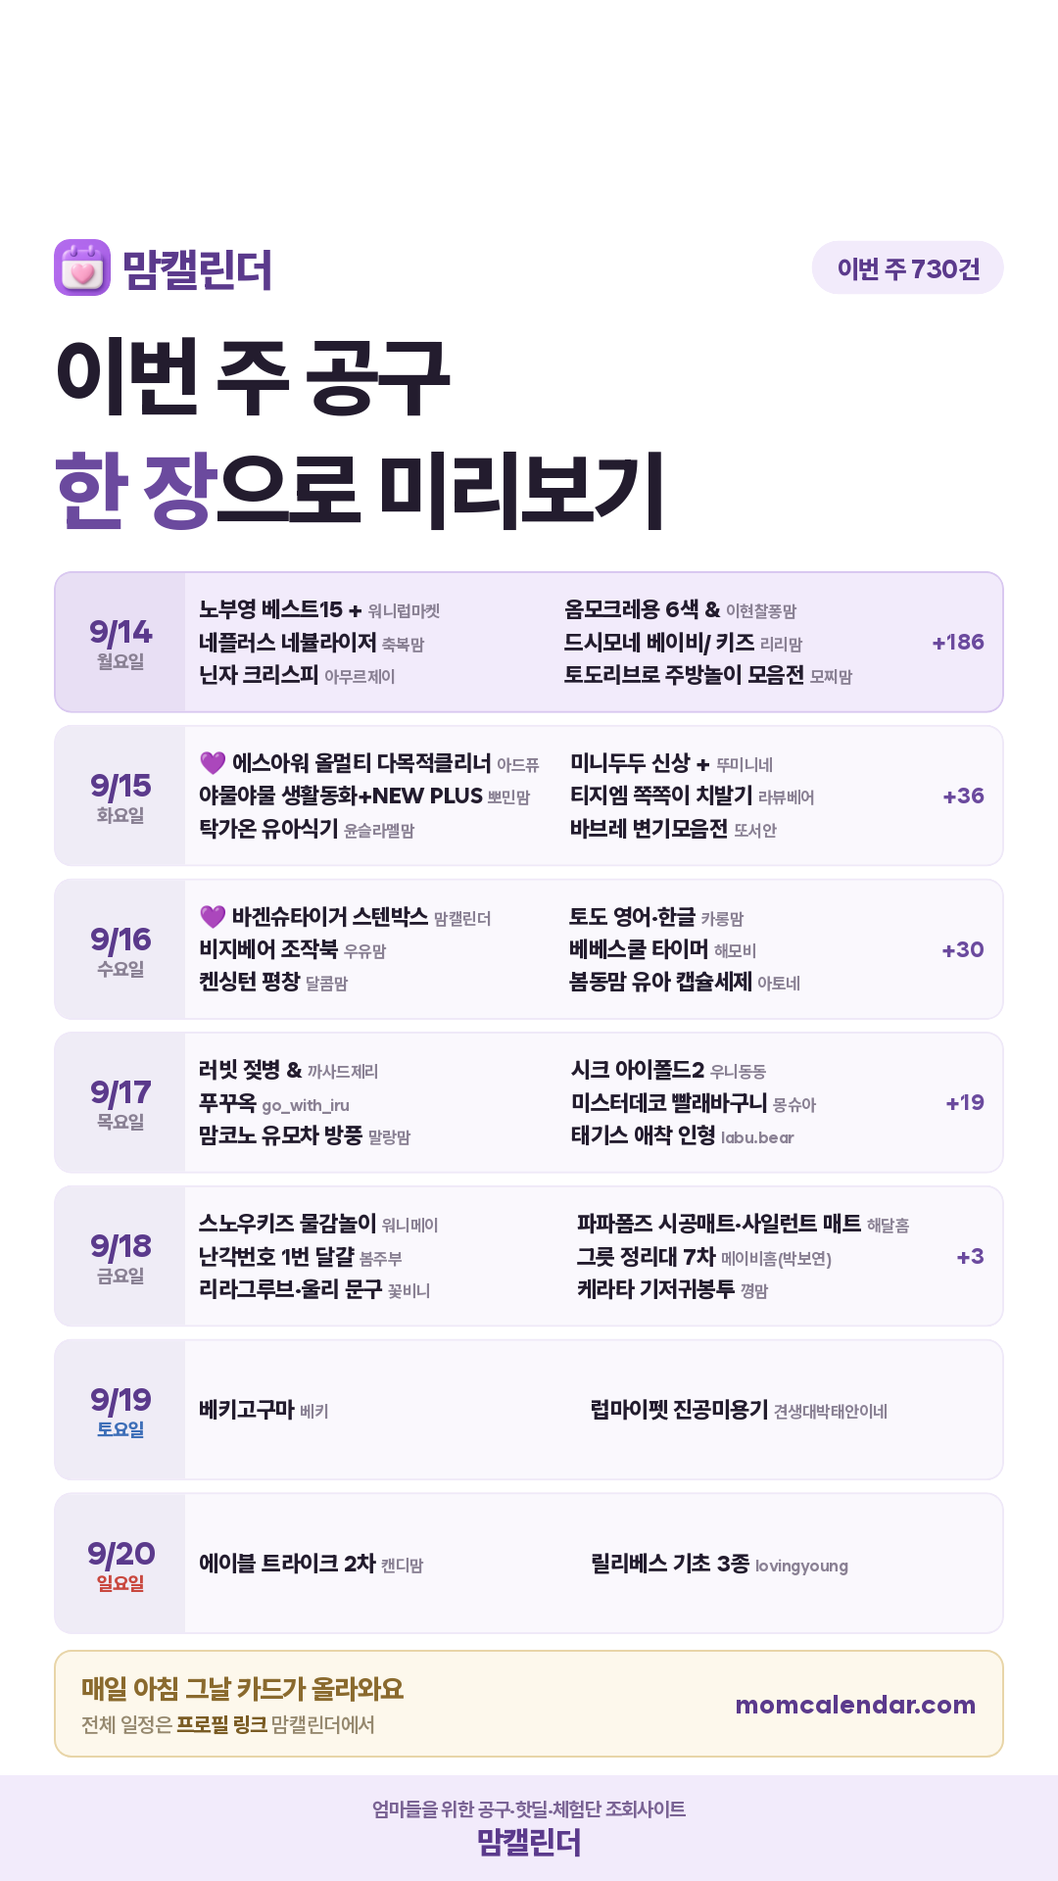
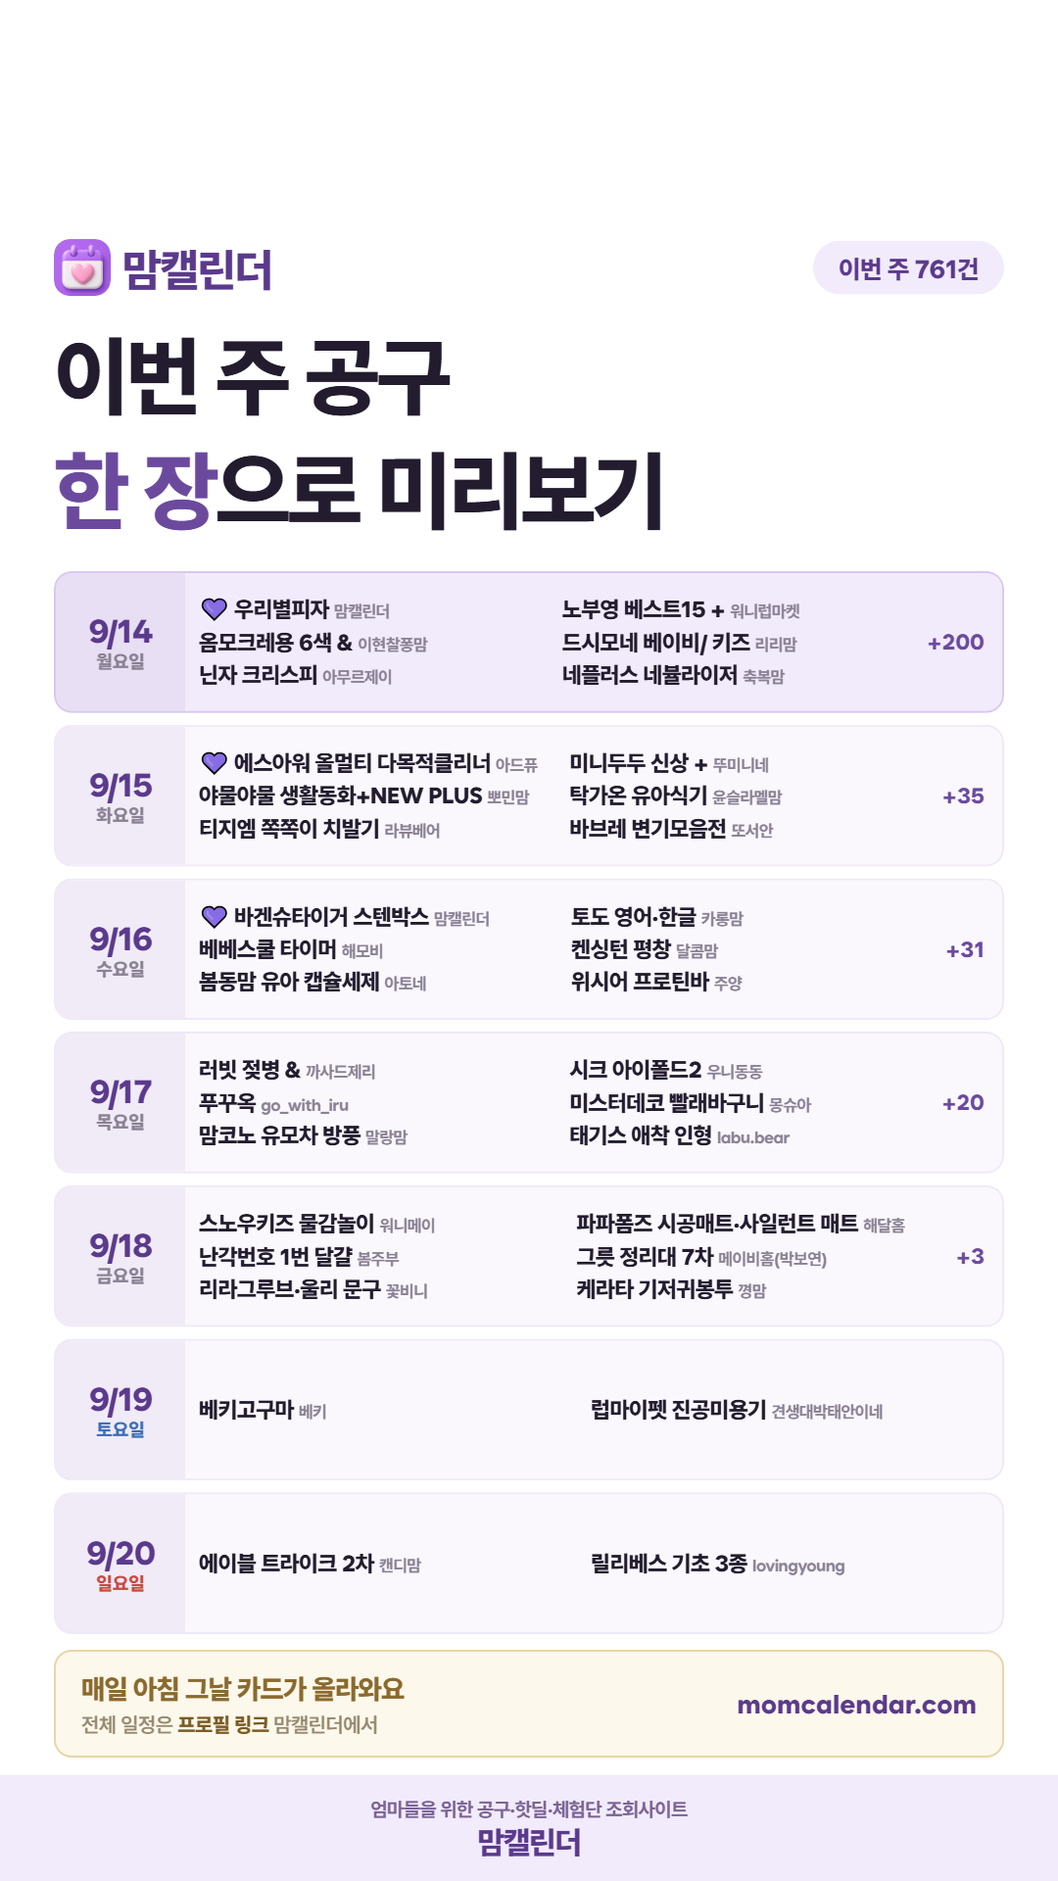
아침 인스타 카드 재생성 (2026-09-14) — 우리별피자(맘캘린더) 맨 위 반영

diff --git a/daily/2026-09-14.html b/daily/2026-09-14.html
@@ -19,25 +19,27 @@ textarea{width:100%;height:260px;border:1px solid #E3DCEF;border-radius:10px;pad
 .todo p{font-size:12.5px;color:#6B6379;line-height:1.75;margin-top:6px}
 .todo a{color:#5B2E8C;font-weight:700}
 </style></head><body>
-<div class="hd"><div class="wrap"><h1>9월 14일(월) 인스타 카드</h1><p>주간예고 · week 730</p></div></div>
+<div class="hd"><div class="wrap"><h1>9월 14일(월) 인스타 카드</h1><p>주간예고 · week 761</p></div></div>
 <div class="wrap">
   
   <div class="card"><img src="./2026-09-14.png" alt="오늘 공구 카드"></div>
   <a class="btn" href="./2026-09-14.png" download="momcal_20260914.png">사진 저장</a>
   <div class="card">
-    <textarea id="cap" readonly>월요일 아침 루틴 — 이번 주 공구 미리보기예요
+    <textarea id="cap" readonly>이번 주 뭐가 열리는지 요일별로 정리했어요
 
-이번 주(9/14~9/20) 오픈 예정 730건
+이번 주(9/14~9/20) 오픈 예정 761건
 
 ━━━━━━━━━━━━━━
 
 🗓 9/14(월) 오픈
+· 우리별피자 — 맘캘린더 @momcal_
 · 노부영 베스트15 + 에릭칼 — 워니럽마켓
 · 옴모크레용 6색 &amp; 12색 &amp; 스케치북 — 이현찰퐁맘
-· 네플러스 네뷸라이저 — 축복맘
 · 드시모네 베이비/ 키즈 — 리리맘
 · 닌자 크리스피 — 아무르제이
+· 네플러스 네뷸라이저 — 축복맘
 · 토도리브로 주방놀이 모음전 — 모찌맘
+· 루솔 — 우유맘
 · 킨더픽 애플박스 — 젤리또리
 · 덕포식육점 아이곰탕&amp;아기소고기 구이용 — 희야
 · 브루더 X CJ 온스타일 — 승빈맘
@@ -46,16 +48,14 @@ textarea{width:100%;height:260px;border:1px solid #E3DCEF;border-radius:10px;pad
 · 마야 :: 간장,된장,춘장,고추장,청국장 — 다른바른맘
 · 슈베가든 이유식 스틱큐브 — 도담맘
 · 매직쉐프 전동그라인더 — 투찬이네
-· 헤이홈 카메라 — 이현맘
-· 바맘 배도라지 — 다겨미네
-…외 176건
+…외 190건
 
 🗓 9/15(화) 오픈
 · 에스아워 올멀티 다목적클리너 — 아드퓨 @atelier.de.purete
 · 미니두두 신상 + 단독컬러 — 뚜미니네
 · 야물야물 생활동화+NEW PLUS 단하루 — 뽀민맘
-· 티지엠 쪽쪽이 치발기 — 라뷰베어
 · 탁가온 유아식기 — 윤슬라멜맘
+· 티지엠 쪽쪽이 치발기 — 라뷰베어
 · 바브레 변기모음전 — 또서안
 · 아띠빠스 걸음마 신발 — 뽀물이네
 · 나와아기 사다리변기 — 솔맘
@@ -67,12 +67,11 @@ textarea{width:100%;height:260px;border:1px solid #E3DCEF;border-radius:10px;pad
 · 미모서울 도마 — 첨미살림
 · AMT 프라이어·멀티쿠커 — 맘이가요
 · 맥스클리닉 오일폼·멜라토닌 버블 마스크팩 — 송송마켓
-…외 26건
+…외 25건
 
 🗓 9/16(수) 오픈
 · 바겐슈타이거 스텐박스 — 맘캘린더 @momcal_
 · 토도 영어·한글 — 카롱맘
-· 비지베어 조작북 — 우유맘
 · 베베스쿨 타이머 — 해모비
 · 켄싱턴 평창 — 달콤맘
 · 봄동맘 유아 캡슐세제 — 아토네
@@ -86,7 +85,8 @@ textarea{width:100%;height:260px;border:1px solid #E3DCEF;border-radius:10px;pad
 · 엔에프락 6차 (추석 특집 — 숨마리
 · 쉐딩티 — _mssssssss
 · 팔팔쭈꾸미 홍익상회 7차 — 그집1303
-…외 20건
+· ORRA 볼륨 브라 + 모달 팬티 — 서정
+…외 21건
 
 🗓 9/17(목) 오픈
 · 러빗 젖병 &amp; 테리빕 — 까사드제리
@@ -104,7 +104,7 @@ textarea{width:100%;height:260px;border:1px solid #E3DCEF;border-radius:10px;pad
 · 하쥬르 — 용복맘
 · 미니 큐브링 200피스 — 마드앤룸
 · 롤리봉 허니앤허브 막대사탕 — 또비앙
-…외 10건
+…외 11건
 
 🗓 9/18(금) 오픈
 · 스노우키즈 물감놀이 — 워니메이
@@ -128,28 +128,28 @@ textarea{width:100%;height:260px;border:1px solid #E3DCEF;border-radius:10px;pad
 
 ━━━━━━━━━━━━━━
 
-도움이 되셨다면 👍 좋아요 하나 눌러주세요
-📌 저장 · 💜 팔로우는 큰 힘이 됩니다
+📌 저장해두면 필요할 때 바로 꺼내 볼 수 있어요
+💜 팔로우하면 내일 일정도 놓치지 않아요
 
 공구 찾을 땐 프로필 링크의 맘캘린더 사이트에서
 검색 한 번이면 끝나요
 피드를 매일 못 보신다면 네이버카페 「맘캘린더」도 있어요
 엄마들끼리 수다 떨며 정보 나누는 공간이에요 ☕
 
-💬 찾으시는 공구 이름을 댓글로 남겨주세요
-다음 일정 업데이트에 우선순위로 반영해서 올릴게요
+💬 궁금한 브랜드·공구는 댓글로 남겨주세요
+우선적으로 찾아서 맘캘린더에 올려드릴게요
 
 내일도 보기 쉽게 정리해서 올게요 🤍
 
 ⚠ 공구 일정은 판매자 사정에 따라 변경·조기마감될 수 있어요.
 
-#맘캘린더 #공구일정 #육아공구 #9월14일공구 #공구찾기 #육아정보 #책육아 #공구정보 #육아템 #유아용품 #신학기준비 #맘스타그램</textarea>
-    <div class="meta">2182자</div>
+#맘캘린더 #공구일정 #육아공구 #9월14일공구 #맘스타그램 #살림템 #아기간식 #유모차 #공구추천 #교구 #공구오픈 #육아용품</textarea>
+    <div class="meta">2185자</div>
     <button class="btn btn2" onclick="cp('cap','캡션')">캡션 복사</button>
   </div>
   <div class="card">
     <div class="meta" style="margin:0 0 8px;font-weight:800;color:#5B2E8C">네이버 블로그용 (blog.naver.com/momcal) — 수정해서 쓰셔도 돼요</div>
-    <textarea id="btitle" style="height:54px">9월 14일(월) 인스타 공구 모음 모음 | 구딩 콧물흡입기·닌자 크리스피·로보락·매직쉐프 공구 오픈</textarea>
+    <textarea id="btitle" style="height:54px">9월 14일(월) 지금 하는 공구 모음 | 구딩 콧물흡입기·닌자 크리스피·도깨비방망이·로보락 공구 오픈</textarea>
     <button class="btn btn2" onclick="cp('btitle','블로그 제목')">블로그 제목 복사</button>
     <textarea id="bbody" style="margin-top:9px">
 
@@ -176,10 +176,10 @@ https://open.kakao.com/o/gr2kJhCh
 
 ─────────────
 
-9월 14일(월), 오늘 새로 오픈하는 인스타 공구일정 288건을 카테고리별로 정리했어요.
-오늘 끝나는 공구가 162건이라 아래쪽도 같이 확인해 보세요.
+9월 14일(월), 오늘 새로 오픈하는 인스타 공구일정 310건을 카테고리별로 정리했어요.
+오늘 끝나는 공구가 169건이라 아래쪽도 같이 확인해 보세요.
 
-■ 오늘 새로 열리는 공구 288건
+■ 오늘 새로 열리는 공구 310건
 
 [육아]
 · 4세대 세이펜 &amp; 5세대 세이북 — 이나마미 (~9/17 마감)
@@ -200,12 +200,13 @@ https://open.kakao.com/o/gr2kJhCh
 · 두꺼비 퍼즐매트 NEW 에디션 2.5T — 미쁘주 (~9/21 마감)
 · 드시모네 베이비/ 키즈 — 리리맘 (~9/17 마감)
 · 또또맘 간식류 모음전 2차 — 뽀물이네 (~9/16 마감)
-· 라비킷 베개 4종 — 뮤즈언니 (~9/18 마감)
 · 라비킷 베개 4종 — 뮤즈마켓 (~9/18 마감)
+· 라비킷 베개 4종 — 뮤즈언니 (~9/18 마감)
 · 람보르기니 프리미엄 킥보드·붕붕카 — 이준맘 (~9/16 마감)
 · 래디어스 칫솔 — 뮤즈마켓 (~9/16 마감)
 · 레벨릭스 오리기 3종 — 지지마마 (~9/16 마감)
 · 루솔 이유식 &amp; 반찬 — 로로맘 (~9/20 마감)
+· 리라그루브&amp;울리 색연필 모음전 — 오꾸맘 (~9/17 마감)
 · 리틀퓨처북 뽀로로펜 — 워니럽마켓 (~9/20 마감)
 · 릴팡 골라담기 모음 — 캔디맘 (~9/18 마감)
 · 마이차일드애플 전40권 — 서점맘 (~9/18 마감)
@@ -227,6 +228,7 @@ https://open.kakao.com/o/gr2kJhCh
 · 베이비부스트 분유포트 — 이현맘 (~9/17 마감)
 · 벨베이비 자석블럭 — 애프리 (~9/17 마감)
 · 보드게임 골라담기 — eeodlf (~9/18 마감)
+· 봄달 아기블랭킷 — 페이보릿 (~9/17 마감)
 · 봄볼 아기부스터 — 까사드제리 (~9/17 마감)
 · 브루더 X CJ 온스타일 — 승빈맘 (~9/16 마감)
 · 블루래빗 언어발달 — 멘토맘 (~9/17 마감)
@@ -264,7 +266,10 @@ https://open.kakao.com/o/gr2kJhCh
 · 카시트 발판 — 꿍맘 (~9/17 마감)
 · 카시트 트레이 — 서노 (~9/16 마감)
 · 캐치콜 — 브론즈 (~9/21 마감)
+· 코리의 생활동화 — 하하네 (~9/17 마감)
 · 큐비츠 — 카롱맘 (~9/17 마감)
+· 크레욜라 메스프리 모음전 — 레 니 (~9/18 마감)
+· 키즈엠 보드북 — 산콩맘 (~9/16 마감)
 · 킨더픽 애플박스 — 도토맘 (~9/17 마감)
 · 킨즈 뉴이 부스터 마베북 원목교구 모음전 — 푸푸네집 (~9/17 마감)
 · 타코 가위·오리기 책 — 나니맘 (~9/17 마감)
@@ -297,13 +302,16 @@ https://open.kakao.com/o/gr2kJhCh
 · 모달 올인원 매트리스커버 — 카루셀리 (~9/20 마감)
 · 미스티파이 올인원 채칼 탈수기 — 신나는셰프 (~9/21 마감)
 · 바겐슈타이거 무연마제 스텐 304 캐니스터 — 하이쩡 (~9/17 마감)
+· 바첸 쿠커블웨어 — 블랑드라팡 (~9/16 마감)
 · 사계절 만원이불 — 케이에이치집 (~9/17 마감)
+· 쉐프윈 스마트쿠커 — 서소맘 (~9/17 마감)
 · 슈슈비 클립매트 — 짱구맘 (~9/20 마감)
 · 스마트메이드 스탠드 — 도다미네 (~9/17 마감)
 · 스프레이 코팅제 4차 — 헤이홈 (~9/20 마감)
 · 아로퓸 세탁세제 — 올리비아홈 (~9/18 마감)
 · 알텐바흐 저압냄비 — 아무르제이 (~9/18 마감)
 · 알텐바흐 저압냄비 — 에루홈 (~9/20 마감)
+· 알텐바흐 특집전 — 살림팝 (~9/20 마감)
 · 알텐바흐 후라이팬 — 정미야 밥먹자 (~9/18 마감)
 · 약셀 어린이 칼 &amp; 도마 — 누누홈 (~9/17 마감)
 · 오베 소창수건 — 온그리 (~9/17 마감)
@@ -313,6 +321,7 @@ https://open.kakao.com/o/gr2kJhCh
 · 척척연구소 티비보호기 2차 — 젤리또리 (~9/17 마감)
 · 철제 선반 하나쯤 갖고 싶은데 — 두잉집 (~9/18 마감)
 · 첫 쿠자 나이프 — ye.96.ye (~9/18 마감)
+· 캠브로 캠트레이 — 유누맘 (~9/20 마감)
 · 캠트레이 — 율이네 (~9/20 마감)
 · 코드니처 하수구,변기세정제 — 로준홈 (~9/20 마감)
 · 클라 무향 욕실세정제 — 두리니 (~9/16 마감)
@@ -334,6 +343,7 @@ https://open.kakao.com/o/gr2kJhCh
 · 김미떡 — 김밀키 (~9/20 마감)
 · 난각번호 1번 계란 — 뽀물맘 (~9/17 마감)
 · 덕포식육점 아이곰탕&amp;아기소고기 구이용 — 희야 (~9/17 마감)
+· 도산회관 주먹밥 — 차니맘 (~9/17 마감)
 · 두유 라잌 두유 — 약빵약사 (~9/17 마감)
 · 떡갈비 51차 — 명희홈쿡 (~9/17 마감)
 · 떡갈비세트 — 사라홈 (~9/17 마감)
@@ -348,9 +358,11 @@ https://open.kakao.com/o/gr2kJhCh
 · 모두의육수 — 예지홈 (~9/17 마감)
 · 모두의육수 추석선물세트 5+1 — 차차식탁 (~9/18 마감)
 · 무첨가 순델리햄 — keepgoing_becky (~9/18 마감)
+· 물디홈 한돈/한우 떡갈비 — 월간서숲 (~9/16 마감)
 · 박향희 김 선물세트 — 엄마로라 (~9/16 마감)
 · 밥도둑 보리굴비 — 엄마로라 (~9/17 마감)
 · 백수네 설담곶 — 유한나 (~9/17 마감)
+· 삼원가든 추석선물세트 — 도현맘 (~9/17 마감)
 · 생과방 수제 약과 — 유한나 (~9/17 마감)
 · 소바삭 소고기칩 — 채쓰맘 (~9/16 마감)
 · 수분보급젤리 — 은하약사 (~9/20 마감)
@@ -361,8 +373,10 @@ https://open.kakao.com/o/gr2kJhCh
 · 연과점 수제 연과 — 유한나 (~9/17 마감)
 · 옐로올로 카카오칩 2차 — 루나맘 (~9/20 마감)
 · 오하루 서리태 콩물 최화정두유 — 령아홈트 (~9/22 마감)
+· 올리브오일 — 주부콩 (~9/17 마감)
 · 와일드알프 베이비워터 — 뷰티팡팡밍빵 (~9/17 마감)
 · 우리별피자 — 아이오유 (~9/17 마감)
+· 우리별피자 — 맘캘린더 (~9/20 마감)
 · 위드잇 잔치국수 — 하얀쿡 (~9/17 마감)
 · 윙잇 멍석말이 목살 — 이지테이블 (~9/17 마감)
 · 자일리톨팝 캔디 — 우동맘 (~9/16 마감)
@@ -394,8 +408,10 @@ https://open.kakao.com/o/gr2kJhCh
 [건강]
 · MS 비타페린 리포퍼철분제 — 남약사 (~9/20 마감)
 · VSL 유산균 — 위드혀니 (~9/17 마감)
+· YDY 베르베린 파이토좀 — 명훈약사 (~9/21 마감)
 · YDY 폴라초임계 오메가3 — 마미약사 (~9/20 마감)
 · YDY 퓨어 리포좀 비타민C — 우리약사 (~9/20 마감)
+· 곰보배추 선물세트 — 껀미언니 (~9/19 마감)
 · 그로우 키즈 칼마디K2 — 딸기약사 (~9/20 마감)
 · 글로이 10차 — 김현아 (~9/17 마감)
 · 뉴치트 단백질 쉐이크 — my_ssseul_ (~9/18 마감)
@@ -404,6 +420,7 @@ https://open.kakao.com/o/gr2kJhCh
 · 다크크런치 다이어트유산균 — 령아홈트 (~9/22 마감)
 · 닥터슈아 철분제 — 태인이네 (~9/16 마감)
 · 담백하루 100만 활성효소 골드 바나나맛 — 뵤리약사 (~9/17 마감)
+· 담백하루 트랜짓 유산균 — 약사비책 (~9/23 마감)
 · 데이타민 칼마디 K2 미네랄 — 베이지약사 (~9/20 마감)
 · 동국제약 센스텐 — 꿀팁약사 (~9/20 마감)
 · 로버츠베리에 — 이지쿡 (~9/17 마감)
@@ -438,9 +455,11 @@ https://open.kakao.com/o/gr2kJhCh
 [뷰티]
 · jovs 레이저 마스크 — 하늘 (~9/17 마감)
 · 닥터바이오 스킨케어 — 미국이맘 (~9/20 마감)
+· 닥토필 5세대 필링 — 조민영 (~9/17 마감)
 · 라브 5차·디나닥스 3차 — 홍익마미 (~9/16 마감)
 · 래디어스 칫솔 — 뮤즈언니 (~9/16 마감)
 · 립프로그 아이스크림/피자카트 — 이니맘 (~9/16 마감)
+· 바바코 드래곤스블러드 앰플 — 위드나미 (~9/17 마감)
 · 브릴리에잇 쿠션 — 민주언니 (~9/16 마감)
 · 성분에디터 녹는실쫀득쿠션 — yekooooong (~9/17 마감)
 · 아미카 리코드 앰플 듀오·아줄렌 수더 기획세트 — 에르떼앙 (~9/16 마감)
@@ -450,9 +469,11 @@ https://open.kakao.com/o/gr2kJhCh
 
 [가전]
 · 구딩 콧물흡입기 — 모찌맘 (~9/17 마감)
-· 닌자 크리스피 — 마마홈 (~9/17 마감)
 · 닌자 크리스피 — 아무르제이 (~9/16 마감)
+· 닌자 크리스피 — 마마홈 (~9/17 마감)
+· 도깨비방망이 헤리티지 마스터 핸드블렌더 — 집꿀 (~9/17 마감)
 · 로보락 Qrevo Edge 2 로봇청소기 — 해달홈 (~9/17 마감)
+· 로슬러 — 몽글홈 (~9/17 마감)
 · 매직쉐프 전동그라인더 — 투찬이네 (~9/17 마감)
 · 미닉스 미니 김치냉장고 — 원살림 (~9/16 마감)
 · 에코숨쉼 네뷸라이저 — 린하맘 (~9/17 마감)
@@ -473,6 +494,7 @@ https://open.kakao.com/o/gr2kJhCh
 · 오즈웨어 어그 — 사라홈 (~9/20 마감)
 · 차코 — 차코 (~9/16 마감)
 · 플로브 가을옷 런칭 — 다루세상 (~9/17 마감)
+· 호주 어그 26년 — 잘먹는유니 (~9/17 마감)
 · 휴대용 변신가방 — Nina DIY (~9/17 마감)
 
 [여행]
@@ -487,7 +509,7 @@ https://open.kakao.com/o/gr2kJhCh
 · 베스트슬립 데이베드 엘라비아 — 희아 (~9/17 마감)
 · 책상 스탠드 — 도다미네 (~9/17 마감)
 
-■ 오늘까지인 공구 162건
+■ 오늘까지인 공구 169건
 · 1++ 9등급 한우 선물세트 — 마이어홈
 · 1만원대 바예호 엑스트라버진 올리브오일 — 카루셀리
 · 1번란 — momo_kitchen802
@@ -503,6 +525,7 @@ https://open.kakao.com/o/gr2kJhCh
 · 경남고성공룡세계엑스포 — ___shhjin
 · 곡물도자기 — 로리안
 · 공룡 대발이 생각이 꿈틀 보드북 — 워니럽마켓
+· 긴쵸 쌀클레이 — 리율맘
 · 까르엠 모션소파 v2 — 솔트마망
 · 꿈꾸는달팽이 맛있는 한글 — 고땅
 · 꿈꾸는요셉 벙커침대 — 수지살림
@@ -517,15 +540,18 @@ https://open.kakao.com/o/gr2kJhCh
 · 담은수 육수 &amp; 초유단백질 — 희야
 · 더소가 티마켓 — 약빵약사
 · 데이타민 비타민D3 츄어블 2000 — 남약사
+· 데코아르 윈드맥스 에어건 — 월간서숲
 · 데코아르 초경량 미니 드라이기 — 블라제이
 · 도피러스알엑스+ 100억 유산균 — 하이킴약사
 · 드웰러 오브제 휴지통 — 감감홈
 · 디나닥스 — 아린이네
 · 디어커스 뱀부 휴지 — byzijjel
+· 디어커스 뱀부휴지 — 헬룸
 · 디어커스 욕실화 — 젤리맘
 · 라라메드 엉덩이 클렌저 — 주주맘
 · 라무르 보습템 — 토비맘
 · 라온킴 야채큐브 4차 — 산들맘
+· 라이스클레이 라이스도우·송편만들기 — 강윤맘
 · 라임프루트 과일선물세트 — 곰부인네
 · 라포레 플레이팅팬 2차 — 베이지까사
 · 락앤락 레인지프라이어 — 까사드제리
@@ -539,6 +565,7 @@ https://open.kakao.com/o/gr2kJhCh
 · 르베르 스핀 유모카 — 태리하루
 · 리솜 스파&amp;워터파크 이용권 — 한브로
 · 리큅x위캔드홈 식품건조기 — weekndhome
+· 리틀콩 가을 실내복 — 뽀물맘
 · 리틀피기 가을신상 — jjoymom.9oo
 · 마이희로 아우터 — 마이희로
 · 맥씽크 마인크래프트 자석블럭 300pcs — habom_official
@@ -571,8 +598,8 @@ https://open.kakao.com/o/gr2kJhCh
 · 서울쿠키 선물세트 — 라라맘
 · 선운산죽염 추석선물세트 — 제제로운건강생활
 · 세계거장 그림책 — 하정맘
-· 소중한습관 모음전 — 뮤즈언니
 · 소중한습관 모음전 — 뮤즈마켓
+· 소중한습관 모음전 — 뮤즈언니
 · 솜솜라이크 피크닉템 모음전 — 도하상점
 · 순델리 순수햄 — 뭉실맘
 · 슈베가든 이유식 스틱 — 서노
@@ -587,8 +614,8 @@ https://open.kakao.com/o/gr2kJhCh
 · 액막이 명태 현관종 — genie__house__
 · 앵거스박 la갈비 선물세트 — 김주애
 · 어그 — 카롱맘
-· 에끌 페이크 반폴라 — 장소정
 · 에끌 페이크 반폴라 — 윤남매맘
+· 에끌 페이크 반폴라 — 장소정
 · 에르메스 오도랑쥬 베르테 — 종달맘
 · 에스파뇰라 프리미엄 올리브유 — 쭈니놀이터
 · 에어리쿨 삭스 — andar_ar_
@@ -609,6 +636,7 @@ https://open.kakao.com/o/gr2kJhCh
 · 일프로 가을 모음전 — 도치맘
 · 일프로 가을 실내복 모음전 — 레 니
 · 일프로 가을ver — 뽀물이네
+· 일프로 가을Ver — 솔앤옷장
 · 자기주도 행거 — 도치맘
 · 자일로드림 — 유주맘(박은영)
 · 재생비비 — ofjeonga
@@ -618,6 +646,7 @@ https://open.kakao.com/o/gr2kJhCh
 · 제주 특대 은갈치 — salrim_jam
 · 젤리맘x나봄 머랭크키 — pdjin
 · 주니 도라에몽 미니텀블러 1+1 — 또마맘
+· 주니 보냉파우치 — 페이보릿
 · 주니 빨대/입모아 컵 — yumini_k
 · 주니 스텐라인 물컵 모음전 — 로제맘
 · 주니 컵모음전 — 우유맘
@@ -658,7 +687,7 @@ https://open.kakao.com/o/gr2kJhCh
 
 ※ 수량이 빨리 소진되면 예정보다 일찍 닫히기도 해요. 관심 있는 공구는 오픈일에 바로 확인하시는 게 좋아요.
 
-#공구일정 #인스타공구 #인스타공구일정 #공동구매 #오늘의공구 #육아공구 #육아템 #공구모음 #구딩공구 #닌자공구 #로보락공구 #매직쉐프공구 #미닉스공구 #에코숨쉼공구 #오토모공구 #위닉스공구</textarea>
+#공구일정 #인스타공구 #인스타공구일정 #공동구매 #오늘의공구 #육아공구 #육아템 #공구모음 #구딩공구 #닌자공구 #도깨비방망이공구 #로보락공구 #로슬러공구 #매직쉐프공구 #미닉스공구 #에코숨쉼공구</textarea>
     <button class="btn" onclick="cp('bbody','블로그 본문 전체')">블로그 본문 전체 복사 (태그 포함)</button>
     <div class="meta">순서: 사진 저장 → 블로그 앱 글쓰기 → 제목 붙여넣기 → 본문 붙여넣기 → 본문 맨 위에 사진 추가 → 발행. 끝의 #태그들은 자동으로 태그가 돼요</div>
   </div>
